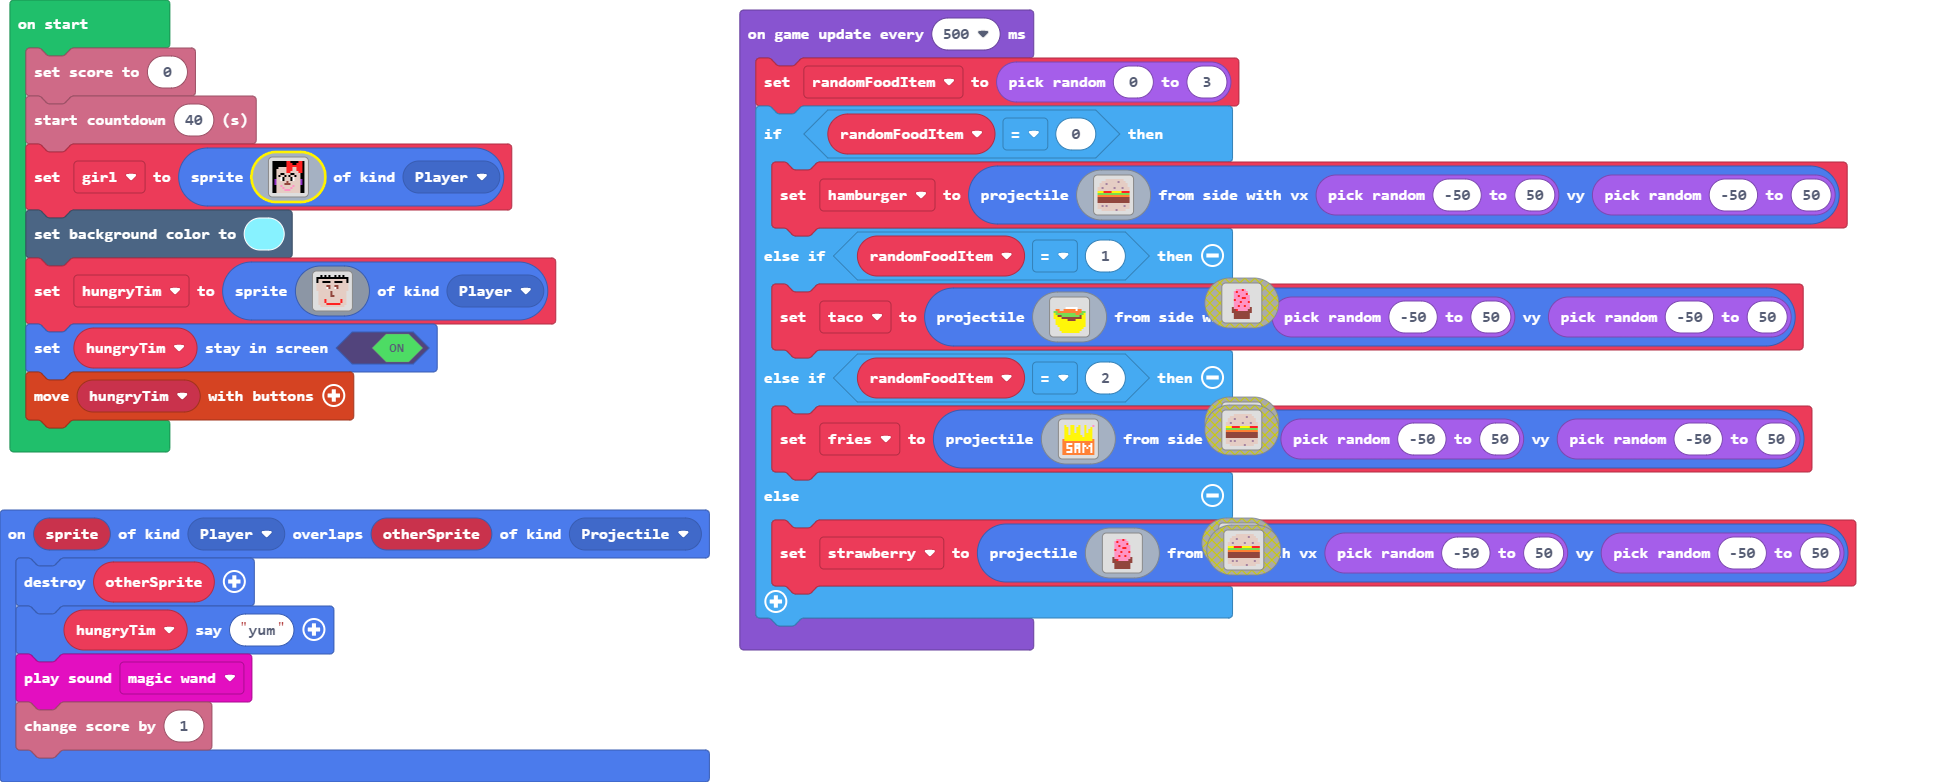
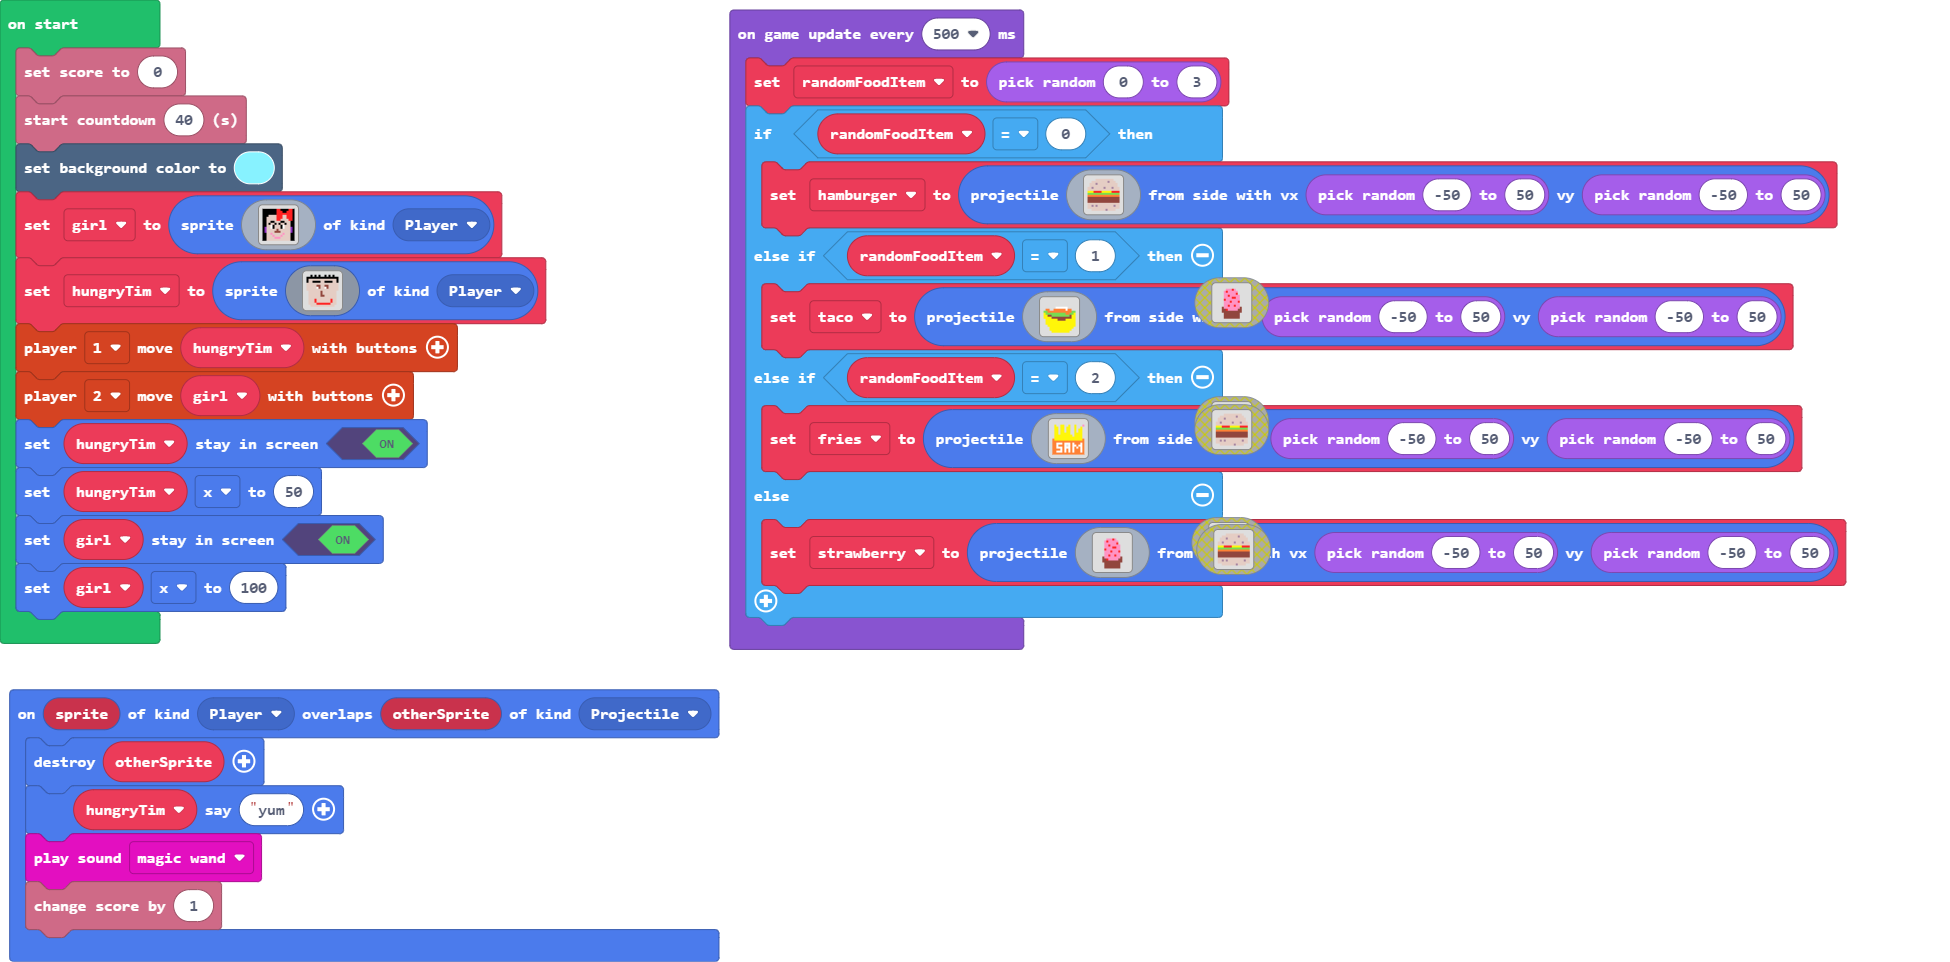
two player version

diff --git a/main.ts b/main.ts
@@ -12,6 +12,7 @@ let randomFoodItem = 0
 let hungryTim: Sprite = null
 info.setScore(0)
 info.startCountdown(40)
+scene.setBackgroundColor(9)
 let girl = sprites.create(img`
     f f f f f f f 2 2 f f f f 2 2 f 
     f f f f f f f 2 2 2 f f 2 2 2 f 
@@ -30,7 +31,6 @@ let girl = sprites.create(img`
     f f d d d d 3 3 3 d d d d d f f 
     f f d d d d d d d d d d d d f f 
     `, SpriteKind.Player)
-scene.setBackgroundColor(9)
 hungryTim = sprites.create(img`
     . . f . f . f . . f . f . f . . 
     f f f f f f f f f f f f f f f f 
@@ -49,8 +49,12 @@ hungryTim = sprites.create(img`
     . d d d d 2 2 2 2 2 2 2 d d d . 
     . . d d d d d d d d d d d d . . 
     `, SpriteKind.Player)
+controller.player1.moveSprite(hungryTim)
+controller.player2.moveSprite(girl)
 hungryTim.setStayInScreen(true)
-controller.moveSprite(hungryTim)
+hungryTim.x = 50
+girl.setStayInScreen(true)
+girl.x = 100
 game.onUpdateInterval(500, function () {
     randomFoodItem = randint(0, 3)
     if (randomFoodItem == 0) {
